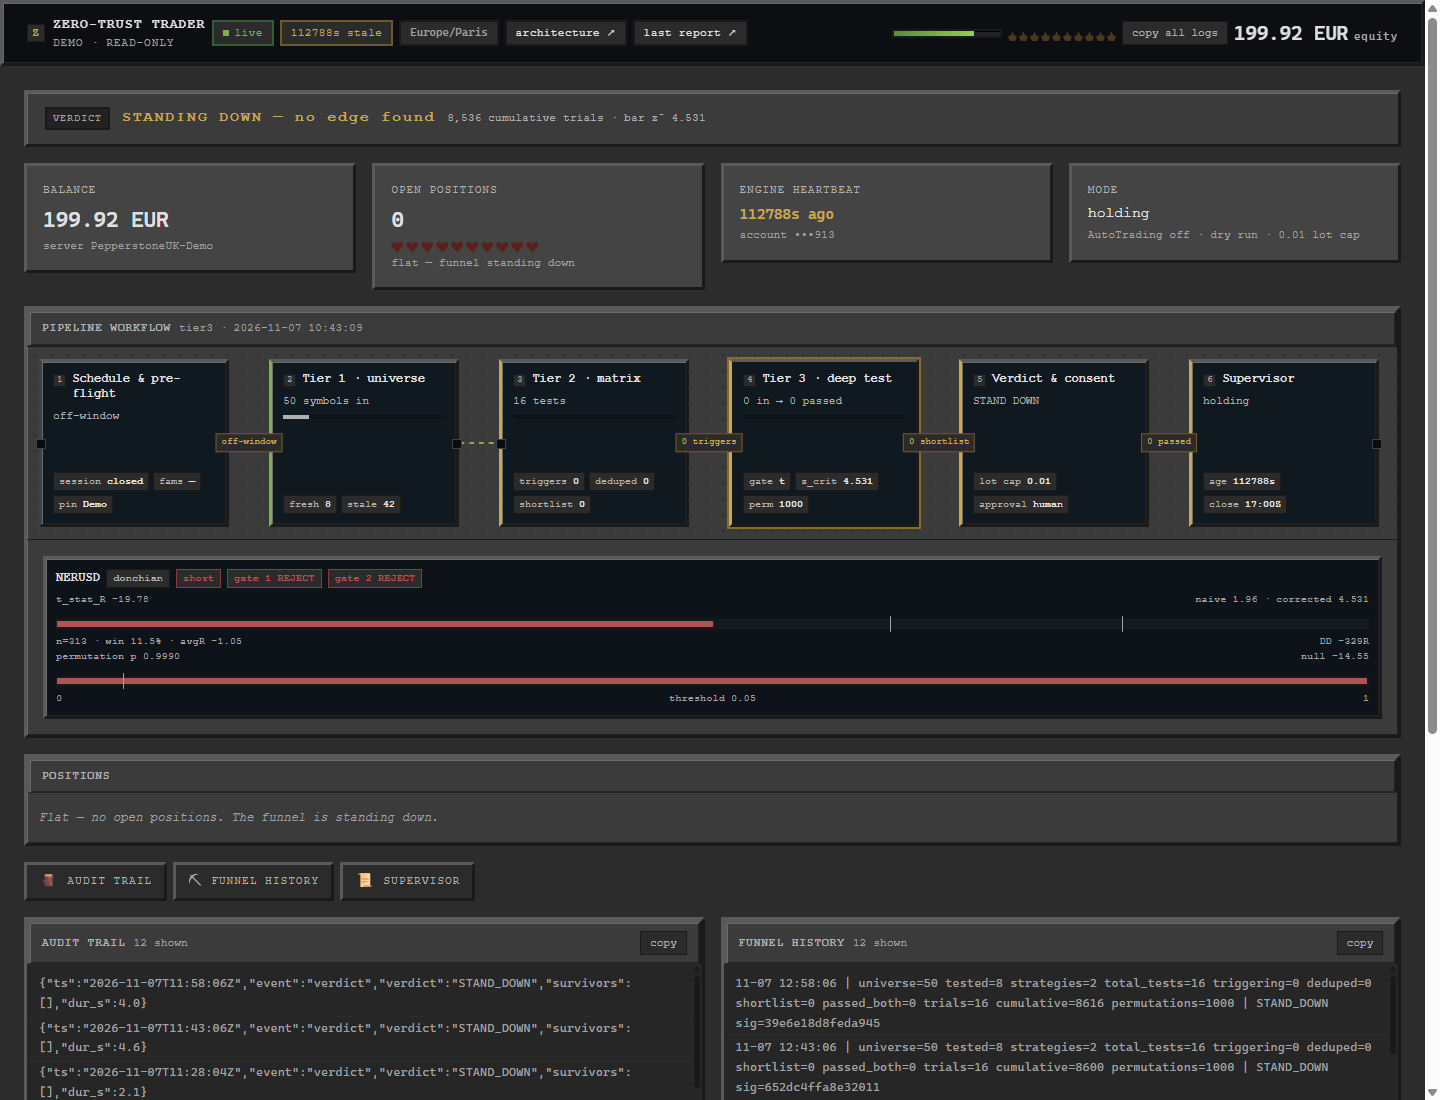
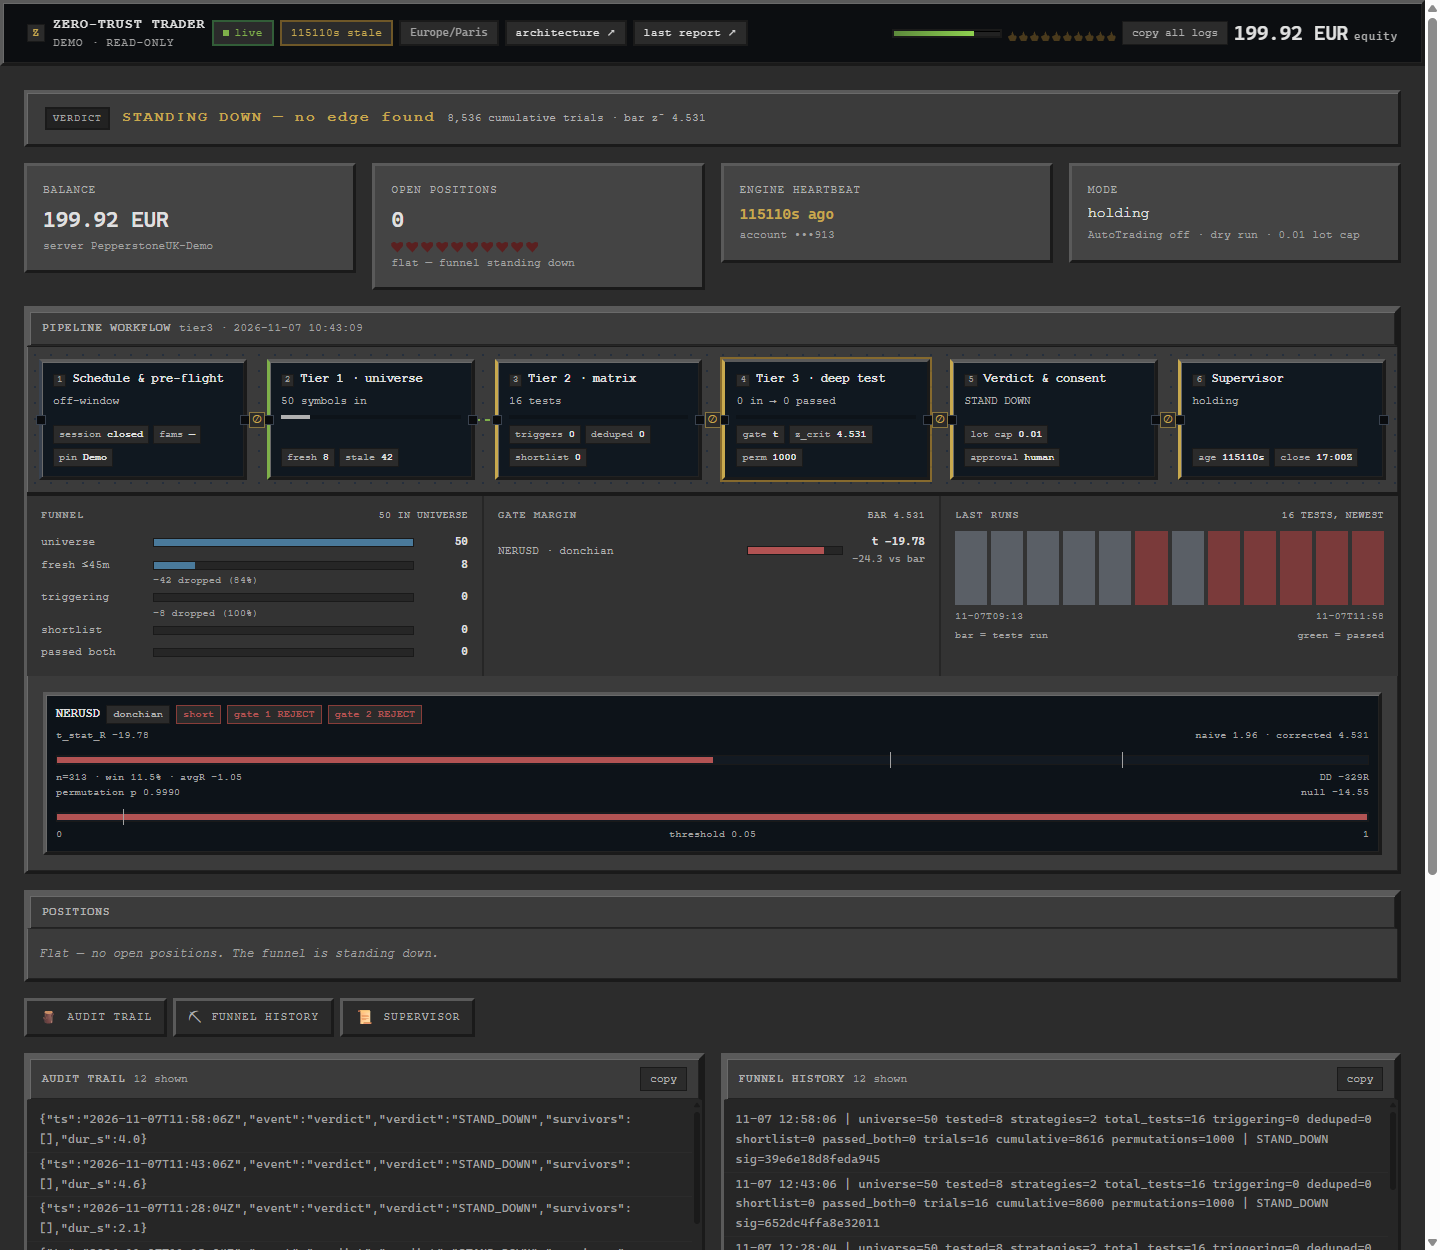
feat(dashboard): the canvas fits the width, and the numbers get a chart
The pipeline needed a sideways scroll — a fixed 190px pitch cannot fit six
stages in 955px, so at 1024 and below the only way to read the funnel was to
drag it. The track is now a CSS grid (6 / 3 / 2 columns by breakpoint) and the
wires are measured from the nodes with a ResizeObserver instead of multiplied
out from a constant. At 1440 one row, at 1024 and 900 two rows with a wrap
connector through the gutter. Verified: page 1425/1440, 1009/1024, 885/900 —
scrollWidth never exceeds the viewport, and the canvas never scrolls internally.

Stop badges were 52px labels in a 20px gap, covering both nodes. They are 16px
⊘ markers now, with the reason in the title and the funnel panel; measured zero
marker/node intersections at all three widths. Wire contrast fixed at the same
time — #1a1a1a on #3b3b3b was invisible.

Analytics was three convbars behind a click. It is a strip under the canvas,
always visible, three panels:
- funnel: 50 → 8 → 0 → 0 → 0 with the drop count and percentage between steps
- gate margin: each deep result's t/z against the bar, with the distance spelled
  out (NERUSD t −19.78, −24.3 vs bar) and a gauge from stat to bar
- last runs: the twelve ledger rows as bars by test count, red when nothing
  triggered, green when a candidate passed

All three read from tier2/tier3 when present and fall back to the ledger row, so
they still say what they know when the artifacts are absent — no panel invents a
zero for a stage that never ran.

diff --git a/dashboard/web/index.html b/dashboard/web/index.html
@@ -53,19 +53,21 @@
   .scrollx{overflow-x:auto}
 
   /* ---- pipeline canvas: fixed pitch, so the wires never need measuring ---- */
-  .pipewrap{overflow-x:auto;overflow-y:hidden;padding:var(--s3);
+  .pipewrap{overflow:visible;padding:var(--s3);
     background-image:radial-gradient(#252f3d 1px,transparent 1px);background-size:16px 16px;
     border-top:1px solid var(--line);border-bottom:1px solid var(--line)}
-  .track{position:relative;display:flex;gap:40px;width:max-content;height:168px;padding-right:8px}
-  .wires{position:absolute;left:0;top:0;pointer-events:none}
-  .wire{fill:none;stroke:var(--line);stroke-width:2}
+  .track{position:relative;display:grid;grid-template-columns:repeat(6,minmax(0,1fr));gap:22px 20px}
+  @media (max-width:1240px){.track{grid-template-columns:repeat(3,minmax(0,1fr))}}
+  @media (max-width:760px){.track{grid-template-columns:repeat(2,minmax(0,1fr))}}
+  .wires{position:absolute;inset:0;width:100%;height:100%;pointer-events:none;overflow:visible}
+  .wire{fill:none;stroke:#6a6a6a;stroke-width:2}
   .wire.on{stroke:var(--good);stroke-dasharray:5 5;animation:flow .9s linear infinite}
   @keyframes flow{to{stroke-dashoffset:-10}}
   @media (prefers-reduced-motion:reduce){.wire.on{animation:none}}
-  .stop{position:absolute;transform:translate(-50%,-50%);z-index:3;pointer-events:none;
-    font-size:9px;letter-spacing:.01em;padding:2px 5px;border-radius:999px;
-    background:#1b2028;border:1px solid rgba(210,153,34,.45);color:var(--warn);white-space:nowrap}
-  .node{position:relative;width:190px;flex:0 0 190px;background:#101820;border:1px solid var(--line);
+  .stop{position:absolute;transform:translate(-50%,-50%);z-index:4;pointer-events:none;
+    width:16px;height:16px;display:grid;place-items:center;font-size:10px;line-height:1;
+    background:#1b2028;border:1px solid rgba(200,169,78,.6);color:var(--warn);white-space:nowrap}
+  .node{position:relative;width:auto;min-width:0;background:#101820;border:1px solid var(--line);
     border-left:3px solid var(--faint);border-radius:10px;padding:10px 11px;cursor:pointer;
     display:flex;flex-direction:column;gap:6px;text-align:left;font:inherit;color:inherit}
   .node:hover{border-color:#2c3947;border-left-color:var(--dim)}
@@ -246,6 +248,34 @@
   .death div{background:#3b3b3b;border:3px solid;border-color:#6a6a6a #1a1a1a #1a1a1a #6a6a6a;
     padding:20px 28px;text-align:center;font-size:13px;letter-spacing:.08em}
   .death b{display:block;font-size:17px;color:var(--bad);margin-bottom:6px;letter-spacing:.14em}
+
+  /* analytics: the same numbers the nodes carry, as shapes you can compare */
+  .analytics{display:grid;grid-template-columns:repeat(3,minmax(0,1fr));gap:0;
+    border-top:3px solid #1a1a1a;background:#333}
+  @media (max-width:1100px){.analytics{grid-template-columns:1fr}}
+  .ana{padding:12px 14px;border-right:2px solid #262626;min-width:0}
+  .ana:last-child{border-right:0}
+  .ana h3{margin:0 0 8px;font-size:10px;letter-spacing:.12em;color:var(--faint);
+    text-transform:uppercase;font-weight:600;display:flex;justify-content:space-between;gap:8px}
+  .ana h3 b{color:var(--dim);font-weight:500;letter-spacing:.04em}
+  .fstep{display:grid;grid-template-columns:104px 1fr 46px;align-items:center;gap:8px;
+    font-size:11px;color:var(--dim);padding:3px 0}
+  .fstep i{font-style:normal;white-space:nowrap;overflow:hidden;text-overflow:ellipsis}
+  .fstep b{text-align:right;color:var(--ink);font-weight:600}
+  .fstep .fb{height:9px;background:#262626;border:1px solid #1a1a1a}
+  .fstep .fb span{display:block;height:100%;background:#4a7a9b}
+  .fstep.gone .fb span{background:#7a3a3a}
+  .drop{font-size:10px;color:var(--faint);margin-left:112px;line-height:1}
+  .runs{display:flex;align-items:flex-end;gap:4px;height:74px;margin-top:2px}
+  .runs div{flex:1;min-width:3px;background:#5a5f66;position:relative}
+  .runs div.hit{background:var(--good)}
+  .runs div.none{background:#7a3a3a}
+  .runlbl{display:flex;justify-content:space-between;font-size:10px;color:var(--faint);margin-top:4px}
+  .gaterow{display:grid;grid-template-columns:1fr 96px 74px;gap:8px;align-items:center;font-size:11px;padding:3px 0}
+  .gaterow .fb{height:9px;background:#262626;border:1px solid #1a1a1a;position:relative;overflow:hidden}
+  .gaterow .fb span{display:block;height:100%}
+  .gaterow i{font-style:normal;color:var(--dim);white-space:nowrap;overflow:hidden;text-overflow:ellipsis}
+  .gaterow b{font-weight:600;text-align:right}
 </style>
 </head>
 <body>
@@ -348,7 +378,6 @@ function LogPane({lines, empty, missing, raw}) {
 
 // ---- pipeline: n8n-style stage graph -----------------------------------
 // 40px gap keeps six nodes inside a 1440px card (6*190 + 5*40 = 1340).
-const NODE_W = 190, NODE_GAP = 40, NODE_H = 168, PITCH = NODE_W + NODE_GAP;
 const pct = (a, b) => (a == null || !b ? 0 : Math.max(0, Math.min(100, (a / b) * 100))) + "%";
 const pick = (...v) => { for (const x of v) if (x !== null && x !== undefined) return x; return null; };
 const nowUtcHours = () => { const d = new Date(); return d.getUTCHours() + d.getUTCMinutes() / 60; };
@@ -542,6 +571,9 @@ function Inspect({ i, x, data }) {
 
 function Pipe({ data }) {
   const [sel, setSel] = useState(3);
+  const [geom, setGeom] = useState(null);
+  const wrap = useRef(null);
+  const cells = useRef([]);
   const x = pipeline(data);
   const age = data && data.engine_age_s;
   const hasEngine = Boolean(data && data.engine);
@@ -571,24 +603,124 @@ function Pipe({ data }) {
       pills: [["age", age == null ? "—" : age + "s"], ["close", "17:00Z"]] },
   ];
   const flow = [x.s.open, x.fresh > 0, x.trig > 0, x.short > 0, x.passed > 0];
-  const W = nodes.length * NODE_W + (nodes.length - 1) * NODE_GAP;
-  const y = NODE_H / 2;
+
+  // Wires follow the nodes instead of an assumed pitch, so the canvas fits any
+  // width: the track is a grid and the geometry is measured, not multiplied out.
+  const measure = useCallback(() => {
+    const w = wrap.current;
+    if (!w) return;
+    const b = w.getBoundingClientRect();
+    const g = cells.current.map((e) => {
+      if (!e) return null;
+      const r = e.getBoundingClientRect();
+      return { x: Math.round(r.left - b.left), y: Math.round(r.top - b.top),
+               w: Math.round(r.width), h: Math.round(r.height) };
+    });
+    if (g.length !== 6 || g.some((v) => !v)) return;
+    const key = JSON.stringify(g);
+    setGeom((prev) => (prev && prev.key === key ? prev : { key, g }));
+  }, []);
+  useEffect(() => { measure(); }, [measure, data]);
+  useEffect(() => {
+    if (typeof ResizeObserver === "undefined") return;
+    const ro = new ResizeObserver(() => measure());
+    if (wrap.current) ro.observe(wrap.current);
+    cells.current.forEach((e) => { if (e) ro.observe(e); });
+    return () => ro.disconnect();
+  }, [measure]);
+
+  const label = (i) => i === 0 && !x.s.open ? "off-window" : i === 1 ? "0 fresh" : i === 2 ? "0 triggers"
+    : i === 3 ? "0 shortlist" : "0 passed";
+  const edges = geom ? flow.map((on, i) => {
+    const a = geom.g[i], b = geom.g[i + 1], sameRow = Math.abs(a.y - b.y) < 8;
+    if (sameRow) {
+      const x1 = a.x + a.w, y1 = a.y + a.h / 2, x2 = b.x, y2 = b.y + b.h / 2;
+      const d = Math.max(6, Math.min(26, (x2 - x1) / 2));
+      return { on, d: `M ${x1} ${y1} C ${x1 + d} ${y1}, ${x2 - d} ${y2}, ${x2} ${y2}`,
+               mx: (x1 + x2) / 2, my: y1, label: label(i) };
+    }
+    // wrapped row: leave the bottom edge, enter the next row's top edge
+    const x1 = a.x + a.w / 2, y1 = a.y + a.h, x2 = b.x + b.w / 2, y2 = b.y;
+    const d = Math.max(6, Math.min(24, (y2 - y1) / 2));
+    return { on, d: `M ${x1} ${y1} C ${x1} ${y1 + d}, ${x2} ${y2 - d}, ${x2} ${y2}`,
+             mx: (x1 + x2) / 2, my: (y1 + y2) / 2, label: label(i) };
+  }) : [];
+
   return html`<div>
-    <div className="pipewrap"><div className="track" style=${{ width: W + "px" }}>
-      <svg className="wires" width=${W} height=${NODE_H} viewBox=${"0 0 " + W + " " + NODE_H} aria-hidden="true">
-        ${flow.map((on, i) => {
-          const x1 = i * PITCH + NODE_W, x2 = (i + 1) * PITCH;
-          return html`<path key=${i} className=${"wire" + (on ? " on" : "")}
-            d=${"M " + x1 + " " + y + " C " + (x1 + 24) + " " + y + ", " + (x2 - 24) + " " + y + ", " + x2 + " " + y} />`;
-        })}
-      </svg>
-      ${flow.map((on, i) => on ? null : html`<span className="stop" key=${"s" + i}
-        style=${{ left: (i * PITCH + NODE_W + NODE_GAP / 2) + "px", top: y + "px" }}>
-        ${i === 0 && !x.s.open ? "off-window" : i === 1 ? "0 fresh" : i === 2 ? "0 triggers" : i === 3 ? "0 shortlist" : "0 passed"}</span>`)}
-      ${nodes.map((nd, i) => html`<${NodeCard} n=${nd} i=${i} key=${i} sel=${i === sel} on=${setSel} />`)}
+    <div className="pipewrap"><div className="track" ref=${wrap}>
+      ${geom ? html`<svg className="wires" aria-hidden="true">
+        ${edges.map((e, i) => html`<path key=${i} className=${"wire" + (e.on ? " on" : "")} d=${e.d} />`)}
+      </svg>` : null}
+      ${nodes.map((nd, i) => html`<button key=${i} ref=${(el) => { cells.current[i] = el; }}
+        className=${"node " + nd.state + (i === sel ? " sel" : "")} onClick=${() => setSel(i)}
+        aria-pressed=${String(i === sel)} title=${nd.title + " — click for detail"}>
+        <div className="nh"><span className="idx">${i + 1}</span><b>${nd.title}</b></div>
+        <div className="nsub">${nd.sub}</div>
+        ${nd.bar ? html`<div className="nbar"><span style=${{ width: nd.bar }}></span></div>` : null}
+        <div className="npills">${nd.pills.map(([k, v]) => html`<span className="np" key=${k}>${k}<b> ${v}</b></span>`)}</div>
+      </button>`)}
+      ${geom ? edges.map((e, i) => e.on ? null : html`<span className="stop" key=${"s" + i}
+        title=${e.label + " — the funnel stopped here"}
+        aria-label=${e.label}
+        style=${{ left: e.mx + "px", top: e.my + "px" }}>⊘</span>`) : null}
     </div></div>
+    <${Analytics} x=${x} data=${data} />
     ${x.empty ? html`<div className="insp"><div className="empty">No scan data — no funnel row, no tier2/tier3 artifact. The funnel has not run since this tree was written to.</div></div>`
       : html`<${Inspect} i=${sel} x=${x} data=${data} />`}
+  </div>`;
+}
+
+function Analytics({ x, data }) {
+  const rows = ((data && data.funnel) || []).map((l) => FUNNEL_RE.exec(l)).filter(Boolean).slice(-12)
+    .map((m) => ({ ts: m[1], tested: +m[3], tests: +m[5], trig: +m[6], passed: +m[9] }));
+  const steps = [["universe", x.in], ["fresh ≤45m", x.fresh], ["triggering", x.trig], ["shortlist", x.short], ["passed both", x.passed]];
+  const top = Math.max(1, ...steps.map(([, v]) => v || 0));
+  const maxT = Math.max(1, ...rows.map((r) => r.tests));
+  const results = ((x.t3 && x.t3.results) || []).slice(0, 4);
+  const zc = x.zc;
+  const span = Math.max(5, (zc || 4.5) * 1.6);
+  const at = (v) => Math.max(0, Math.min(100, ((v + span) / (2 * span)) * 100));
+  return html`<div className="analytics">
+    <div className="ana">
+      <h3>Funnel <b>${x.in == null ? "no scan" : x.in + " in universe"}</b></h3>
+      ${steps.map(([name, v], k) => {
+        const prev = k === 0 ? null : steps[k - 1][1];
+        const drop = prev != null && v != null && prev > v ? prev - v : null;
+        return html`<div key=${name}>
+          <div className=${"fstep" + (v === 0 ? " gone" : "")}>
+            <i>${name}</i><div className="fb"><span style=${{ width: pct(v, top) }}></span></div>
+            <b className="mono">${v == null ? "—" : v}</b>
+          </div>
+          ${drop ? html`<div className="drop">−${drop} dropped${prev ? " (" + Math.round((drop / prev) * 100) + "%)" : ""}</div>` : null}
+        </div>`;
+      })}
+    </div>
+    <div className="ana">
+      <h3>Gate margin <b>${zc == null ? "bar unknown" : "bar " + zc.toFixed(3)}</b></h3>
+      ${results.length ? results.map((r, k) => {
+        const g = r.significance || {}, useT = g.gate === "t", stat = useT ? g.t_stat_R : g.z;
+        const margin = stat == null || zc == null ? null : stat - zc;
+        return html`<div className="gaterow" key=${(r.symbol || "") + k}>
+          <i>${r.symbol} · ${r.strategy}</i>
+          <div className="fb"><span style=${{ width: (stat == null ? 0 : Math.abs(at(stat) - at(zc))) + "%",
+            marginLeft: Math.min(at(stat), at(zc)) + "%",
+            background: margin != null && margin > 0 ? "var(--good)" : "var(--bad)" }}></span></div>
+          <b className="mono">${stat == null ? "—" : (useT ? "t " : "z ") + stat.toFixed(2)}<br/>
+            <span style=${{ color: "var(--faint)", fontSize: "10px", fontWeight: 400 }}>
+              ${margin == null ? "" : (margin > 0 ? "+" : "") + margin.toFixed(1) + " vs bar"}</span></b>
+        </div>`;
+      }) : html`<div className="empty">No deep test on disk — nothing reached Tier 3 since this tree was written to.</div>`}
+    </div>
+    <div className="ana">
+      <h3>Last runs <b>${rows.length ? rows[rows.length - 1].tests + " tests, newest" : "no rows"}</b></h3>
+      ${rows.length ? html`<div className="runs">${rows.map((r, k) => html`<div key=${k}
+          className=${r.passed ? "hit" : r.trig ? "" : "none"}
+          style=${{ height: Math.max(6, (r.tests / maxT) * 100) + "%" }}
+          title=${r.ts + " · " + r.tests + " tests · " + r.trig + " triggering · " + r.passed + " passed"}></div>`)}</div>
+        <div className="runlbl"><span>${rows[0].ts.slice(5, 16)}</span><span>${rows[rows.length - 1].ts.slice(5, 16)}</span></div>
+        <div className="runlbl"><span>bar = tests run</span><span>green = passed</span></div>`
+        : html`<div className="empty">No funnel rows in this tree.</div>`}
+    </div>
   </div>`;
 }
 

diff --git a/AGENTS.md b/AGENTS.md
@@ -280,6 +280,10 @@ when launched from either the repo root or `dashboard/`.
 - **React is vendored** in `web/vendor/`. Do not swap it back to a CDN — that
   reintroduces an offline failure mode and an SRI hash to maintain.
 - Client WebSocket messages are intentionally ignored by the server.
+- **The canvas must fit the viewport.** Six stages are a CSS grid (6/3/2 columns)
+  and the wires are measured from the nodes with a `ResizeObserver`. Do not
+  reintroduce a fixed node pitch and a horizontally scrolling track — the page
+  must never scroll sideways.
 - **The tail is bounded.** `tail()` seeks to the last 16 KiB instead of reading the
   whole file, because the ledger is append-only and grows forever. Do not go back
   to `read_to_string` on a file the engine appends to.
